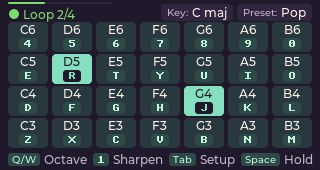
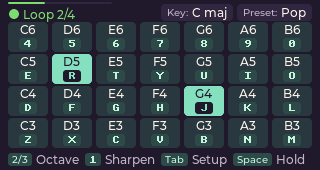
Release ZeroChord 2.0.1
All front shifts the octave with 2/3 instead of Q/W.

Changed region(s): [[0.0312, 0.8824, 1.0, 1.0]]

diff --git a/tests/music_tests.cpp b/tests/music_tests.cpp
@@ -791,15 +791,15 @@ int main() {
         p.key('e', false, 35);
         CHECK(captured.events.back().type == CommandType::Off &&
               captured.events.back().id == captured.events[0].id && !p.allFrontHeld(7));
-        p.key('w', true, 40); // Q/W shift the octave.
-        p.key('w', false, 41);
+        p.key('3', true, 40); // 2/3 shift the octave.
+        p.key('3', false, 41);
         CHECK(p.playingAllFrontNotes()[21] == 60);
         p.settings.allFrontOctave = 5; // Top row already B8: one more octave would leave MIDI.
         p.allFrontShift = 0;
-        p.key('w', true, 42);
-        p.key('w', false, 43);
+        p.key('3', true, 42);
+        p.key('3', false, 43);
         CHECK(p.allFrontShift == 0);
-        p.key('q', true, 44);
+        p.key('2', true, 44);
         CHECK(p.allFrontShift == -1);
         p.settings.allFrontOctave = 3, p.allFrontShift = 0;
         // Leaving releases held keys; the chord keeps sounding.

diff --git a/scripts/test_local_flows.py b/scripts/test_local_flows.py
@@ -188,8 +188,8 @@ print('PASS: playing screen after busy playing matches a fresh drawing (dark and
 # All front (hold Space) also updates in place; a Space tap stops without leaving it.
 enter = [(20,'SPACE','down'), (700,'SPACE','up')]
 for mode in ('', 'allFrontMode 1\n'):
-    keys = [(760,'e','down'), (780,'1','down'), (800,'d','down'), (820,'e','up'), (840,'w','down'),
-            (850,'w','up'), (860,'q','down'), (870,'q','up'), (880,'1','up'), (900,'d','up'),
+    keys = [(760,'e','down'), (780,'1','down'), (800,'d','down'), (820,'e','up'), (840,'3','down'),
+            (850,'3','up'), (860,'2','down'), (870,'2','up'), (880,'1','up'), (900,'d','up'),
             (920,'SPACE','down'), (940,'SPACE','up')]
     target = [(1200,'m','down'), (1220,'4','down')]
     fresh = playing_screen('all-front-fresh', enter + target, 1500, mode)

diff --git a/src/instrument.cpp b/src/instrument.cpp
@@ -442,8 +442,8 @@ void Instrument::allFrontKey(char key, bool down) {
         return;
     }
     if (!down) return;
-    if (key == 'q' || key == 'w') { // Octave shift, while every sounding key stays in range.
-        const int step = key == 'w' ? 1 : -1;
+    if (key == '2' || key == '3') { // Octave shift, while every sounding key stays in range.
+        const int step = key == '3' ? 1 : -1;
         const auto notes = allFrontNotes(settings, allFrontShift + step);
         const auto current = allFrontNotes(settings, allFrontShift);
         for (size_t n = 0; n < notes.size(); n++)

diff --git a/src/instrument.hpp b/src/instrument.hpp
@@ -51,7 +51,7 @@ class Instrument {
     bool frontHeld(int key) const { return frontVoices_[key] != 0; } // Z-M sounding while held.
     void key(char key, bool down, uint64_t now);
     // All front (hold Space): every letter and number key plays the front; the backing keeps
-    // its chord. Not saved; Q/W shift the octave for this session.
+    // its chord. Not saved; 2/3 shift the octave for this session.
     bool allFront = false;
     int allFrontShift = 0;
     void setAllFront(bool on);

diff --git a/src/settings_editor.cpp b/src/settings_editor.cpp
@@ -1358,7 +1358,7 @@ std::vector<SettingsEditor::ShortcutPage> SettingsEditor::shortcuts(const Settin
           {"Hold Esc", "Save and exit"}}},
         {"All front",
          {{"4-0 E-O D-L Z-M", "Every key plays a note"},
-          {"Q / W", "Octave down / up"},
+          {"2 / 3", "Octave down / up"},
           {"1", "Sharpen (Scale layout)"},
           {"Enter / Space", "Loop and stop, as usual"},
           {"Layout", "App > All front"}}},

diff --git a/src/ui.cpp b/src/ui.cpp
@@ -792,7 +792,7 @@ void UI::drawAllFront() {
         v.midi = keycap(312 - width, 153, width, badge, small, colors.panel, colors.muted);
         hintsRight = 312 - width - 6;
     }
-    std::vector<Hint> hints{{"Q/W", "Octave"}};
+    std::vector<Hint> hints{{"2/3", "Octave"}};
     if (!free) hints.push_back({"1", "Sharpen"});
     hints.push_back({"Tab", "Setup"});
     hints.push_back({"Space", "Hold: chords", "Hold"});

diff --git a/PUBLISH.md b/PUBLISH.md
@@ -1,23 +1,24 @@
-# ZeroChord 2.0.0 release record
+# ZeroChord 2.0.1 release record
 
-Prepared on 2026-11-27. The installed candidate passed acceptance checks on the
-development CardputerZero. The previous release is `v1.4.0`, published on GitHub
-and in the CardputerZero Store.
+Prepared on 2026-11-28. The installed candidate passed acceptance checks on the
+development CardputerZero. The previous release is `v2.0.0`, published on GitHub
+and in the CardputerZero Store. 2.0.1 moves All front's octave shift from `Q`/`W`
+to `2`/`3`.
 
 ## Package
 
 | Field | Value |
 | --- | --- |
 | Package | `zerochord` |
-| Version | `2.0.0`, from [VERSION.txt](VERSION.txt) |
+| Version | `2.0.1`, from [VERSION.txt](VERSION.txt) |
 | Architecture | `arm64` |
-| Release file | `dist/zerochord_2.0.0_arm64.deb` |
-| Size | 828,912 bytes |
[2 lines of base64/hex data omitted]
-| Checksum file | `dist/zerochord_2.0.0_arm64.deb.sha256` |
[1 lines of base64/hex data omitted]
-| Installed-Size | 2329 KiB |
+| Release file | `dist/zerochord_2.0.1_arm64.deb` |
+| Size | 829,272 bytes |
[2 lines of base64/hex data omitted]
+| Checksum file | `dist/zerochord_2.0.1_arm64.deb.sha256` |
[1 lines of base64/hex data omitted]
+| Installed-Size | 2331 KiB |
 | Maintainer configuration | Set `ZEROCHORD_MAINTAINER` locally before packaging |
 | Dependencies | `libc6 (>= 2.36), libpulse0, pulseaudio-utils, timgm6mb-soundfont` |
 | Source URL configuration | Optional `ZEROCHORD_HOMEPAGE`; see [.env.example](.env.example) |
@@ -25,11 +26,12 @@ and in the CardputerZero Store.
 
 The Debian VM cross-compiled the binary with Zig for Linux ARM64 and glibc 2.36.
 Debian supplies the runtime SoundFont as a dependency. The Grand Piano, Synths
-and Drums packs are separate downloads. The final package updates the bundled
-testing record only: outside `usr/share/doc/zerochord/` its files and modes match
-the installed candidate byte for byte, its executable is the tested one, and its
-control fields differ only in `Installed-Size` (2328 to 2329). The installed test
-ran on the candidate and was not repeated.
+and Drums packs are separate downloads. The final package differs from the
+installed candidate only in the bundled testing record and the refreshed All
+front screenshot: outside `usr/share/doc/zerochord/` its files and modes match
+byte for byte, its executable is the tested one, and its control fields differ
+only in `Installed-Size` (2329 to 2331). The installed test ran on the candidate
+and was not repeated.
 
 ## User-facing deliverables
 
@@ -58,7 +60,7 @@ See the [development notes](docs/DEVELOPMENT.md#releasing). To install manually
 on the device, copy over the package and run:
 
 ```sh
-sudo apt install ./zerochord_2.0.0_arm64.deb
+sudo apt install ./zerochord_2.0.1_arm64.deb
 systemctl --user restart APPLaunch.service
 ```
 
@@ -68,24 +70,20 @@ Its first launch moves an existing `~/.config/zerochord/` there.
 ## Validation
 
 - [x] Eight desktop suites, the same eight with ASan/UBSan (LeakSanitizer on), and
-  47 real-app flows passed, including the move to `~/ZeroChord/`.
+  47 real-app flows passed, including the All front flow with `2`/`3`.
 - [x] Privacy scan found zero failures, for the tree and the archive. Warnings
   identify the intentional public project account, repository URL and noreply
   commit identity.
 - [x] The device verified the archive checksum.
-- [x] `zerochord 2.0.0` (installed candidate `162076e9…`) installed on the CardputerZero over 1.4.0. `dpkg --verify`
-  was clean and the launcher resumed.
-- [x] The installed test passed on the candidate: evdev input, framebuffer readback, settings
-  persistence, a one-bar loop recorded through injected keys and saved, and clean
-  exit. Digital capture recorded 520,800 stereo frames with peak 29,164 and zero
-  queue overflows.
-- [x] The development build's first launch moved the device's settings, presets,
-  loop and three FluidR3 packs into `~/ZeroChord/`; a plain `.sf2` loaded and
-  appeared under Custom.
-- [x] Store screenshots reproduced byte for byte and inspected at native resolution.
-- [ ] A real USB MIDI keyboard (notes, pedal, pitch bend, mod wheel) on the device.
-- [ ] Hands-on playing of the looper, All front and 3/4 loops, and speaker/headphone
-  listening, accepted by the user.
+- [x] `zerochord 2.0.1` (installed candidate `812279b5…`) installed on the
+  CardputerZero over 2.0.0. `dpkg --verify` was clean and the launcher resumed.
+- [x] The installed test passed on the candidate: evdev input, framebuffer readback,
+  settings persistence, a one-bar loop recorded through injected keys and saved,
+  and clean exit. Digital capture recorded 523,200 stereo frames with peak 29,164
+  and zero queue overflows.
+- [x] Store screenshots regenerated; only the All front image changed (hint `2/3`),
+  inspected at native resolution.
+- [ ] Pressing `2`/`3` in All front on the physical keyboard, accepted by the user.
 
 Details and limits are in the [testing record](docs/TESTING.md).
 
@@ -124,7 +122,7 @@ The 1.2.0 submission is recorded in [CardputerZero/packages #712](https://github
 
 ## Git release
 
-The release tag is `v2.0.0` on `main`, pushed on 2026-11-28 with `main`. The
-GitHub Release for `v2.0.0` has the final package and checksum listed above, with
-notes from the tagged changelog; its downloaded package matches the final SHA-256,
-and its author and asset uploader are the project's account. `dev` stays local.
+`v2.0.1` will be tagged on `main` after approval. `dev` stays local.
+
+The `v2.0.0` tag was pushed on 2026-11-28 with `main`, and its GitHub Release has
+the 2.0.0 package and checksum, with notes from the tagged changelog.

diff --git a/docs/TESTING.md b/docs/TESTING.md
@@ -1,5 +1,27 @@
 # Testing ZeroChord
 
+## 2.0.1 release — 2026-11-28
+
+- **Change:** All front shifts the octave with `2`/`3` instead of `Q`/`W`.
+  `music_tests` presses `3` to go up, is refused one octave past MIDI 127, and presses `2`
+  to go down. The All front real-app flow presses `3` and `2`.
+- **Local:** all eight desktop suites, the same eight built with ASan/UBSan (Debug,
+  LeakSanitizer on) and all 47 real-app flows passed. Release screenshots were
+  regenerated: only the All front images changed (the hint reads `2/3`), checked at
+  320×170.
+- **Package:** the installed candidate `dist/zerochord_2.0.1_arm64.deb` was 828,972
+  bytes, SHA-256 `812279b5…f86f6a1`; executable SHA-256 `58dfdf65…c4cd28`. Privacy
+  scan: 0 FAIL for the tree and the archive. The final package was rebuilt after
+  the installed test only to bundle this record and the refreshed All front
+  screenshot. Outside `usr/share/doc/zerochord/`, its files and modes match the
+  tested archive, its control fields differ only in `Installed-Size` (2329 to 2331),
+  and its executable is the one tested, so the installed test was not repeated.
+- **Device:** installed over 2.0.0; `scripts/test_installed.py 2.0.1` passed: version
+  and `dpkg --verify`, launcher entry, evdev input, framebuffer readback matching the
+  app capture, isolated settings persistence with a one-bar loop, 523,200 stereo
+  frames of audio (peak 29,164), zero queue overflows and a clean long-Esc exit.
+- **Not validated:** pressing `2`/`3` on the physical keyboard and listening.
+
 ## 2.0.0 release — 2026-11-27
 
 - **Local:** all eight desktop suites, the same eight built with ASan/UBSan (Debug,

diff --git a/README.md b/README.md
@@ -2,7 +2,7 @@
 
 <img src="assets/share/images/zerochord.png" alt="ZeroChord icon" width="96" height="96">
 
-**A pocket chord instrument, backing band and looper for CardputerZero. Version 2.0.0.**
+**A pocket chord instrument, backing band and looper for CardputerZero. Version 2.0.1.**
 
 ZeroChord turns your CardputerZero into a pocket jam partner. Pick a chord with one hand,
 play its notes with the other, and a backing band of Chord, Arp, Pad, Bass and Drums
@@ -21,14 +21,14 @@ envelopes, tempo and swing are adjustable.
 
 ![ZeroChord playing over a loop: the green light counts the loop's bars and its chord shows in green](docs/images/release-loop.png)
 
-[Download ZeroChord 2.0.0](https://github.com/momo20261121/ZeroChord/releases/download/v2.0.0/zerochord_2.0.0_arm64.deb) · [Make your first sound](#make-your-first-sound) · [User guide](docs/USER_GUIDE.md)
+[Download ZeroChord 2.0.1](https://github.com/momo20261121/ZeroChord/releases/download/v2.0.1/zerochord_2.0.1_arm64.deb) · [Make your first sound](#make-your-first-sound) · [User guide](docs/USER_GUIDE.md)
 
 ## Install
 
-Copy `zerochord_2.0.0_arm64.deb` to the CardputerZero, then run there:
+Copy `zerochord_2.0.1_arm64.deb` to the CardputerZero, then run there:
 
 ```sh
-sudo apt install ./zerochord_2.0.0_arm64.deb
+sudo apt install ./zerochord_2.0.1_arm64.deb
 systemctl --user restart APPLaunch.service
 ```
 

diff --git a/docs/DEVELOPMENT.md b/docs/DEVELOPMENT.md
@@ -5,7 +5,7 @@ Run commands from the project root. User controls are in the [user guide](USER_G
 ## Branches and releases
 
 `main` contains tested releases, identified by `v<version>` tags (starting with
-`v1.0.0`). Use `dev` for the next release (currently 2.0.0) and merge into `main`
+`v1.0.0`). Use `dev` for the next release (currently 2.0.1) and merge into `main`
 when the release is tested and ready. Preserve existing
 history. `dev` stays local and is never pushed (`scripts/install_git_guard.sh`
 installs a pre-push hook enforcing this); pushing `main` or a release tag requires

diff --git a/AGENTS.md b/AGENTS.md
@@ -9,7 +9,7 @@ scope; preserve previously agreed behavior unless the request changes it.
 ## Branches
 
 - Keep `main` for tested releases; tag each release as `v<version>`.
-- Use `dev` for development toward the next release (currently 2.0.0).
+- Use `dev` for development toward the next release (currently 2.0.1).
   Switch to it before changing application code while on `main`.
 - Merge into `main` only when the release is tested and ready.
 - `dev` is local-only: never push it or set it to track a remote. Only `main` and

diff --git a/docs/USER_GUIDE.md b/docs/USER_GUIDE.md
@@ -231,7 +231,7 @@ to return to the chord screen. In All front, the four rows `4`–`0`, `E`–`O`,
 note. A backing chord that is playing keeps going, so you can latch a chord with
 Hold, switch, and play over the groove. With Hold off, switching stops the chord.
 
-- `Q` / `W` shift every key down or up an octave.
+- `2` / `3` shift every key down or up an octave.
 - Tap `Space` to stop everything; you stay in All front.
 - `Tab` opens settings. `O`, `P`, `9`, and `0` are notes here, not shortcuts.
 
